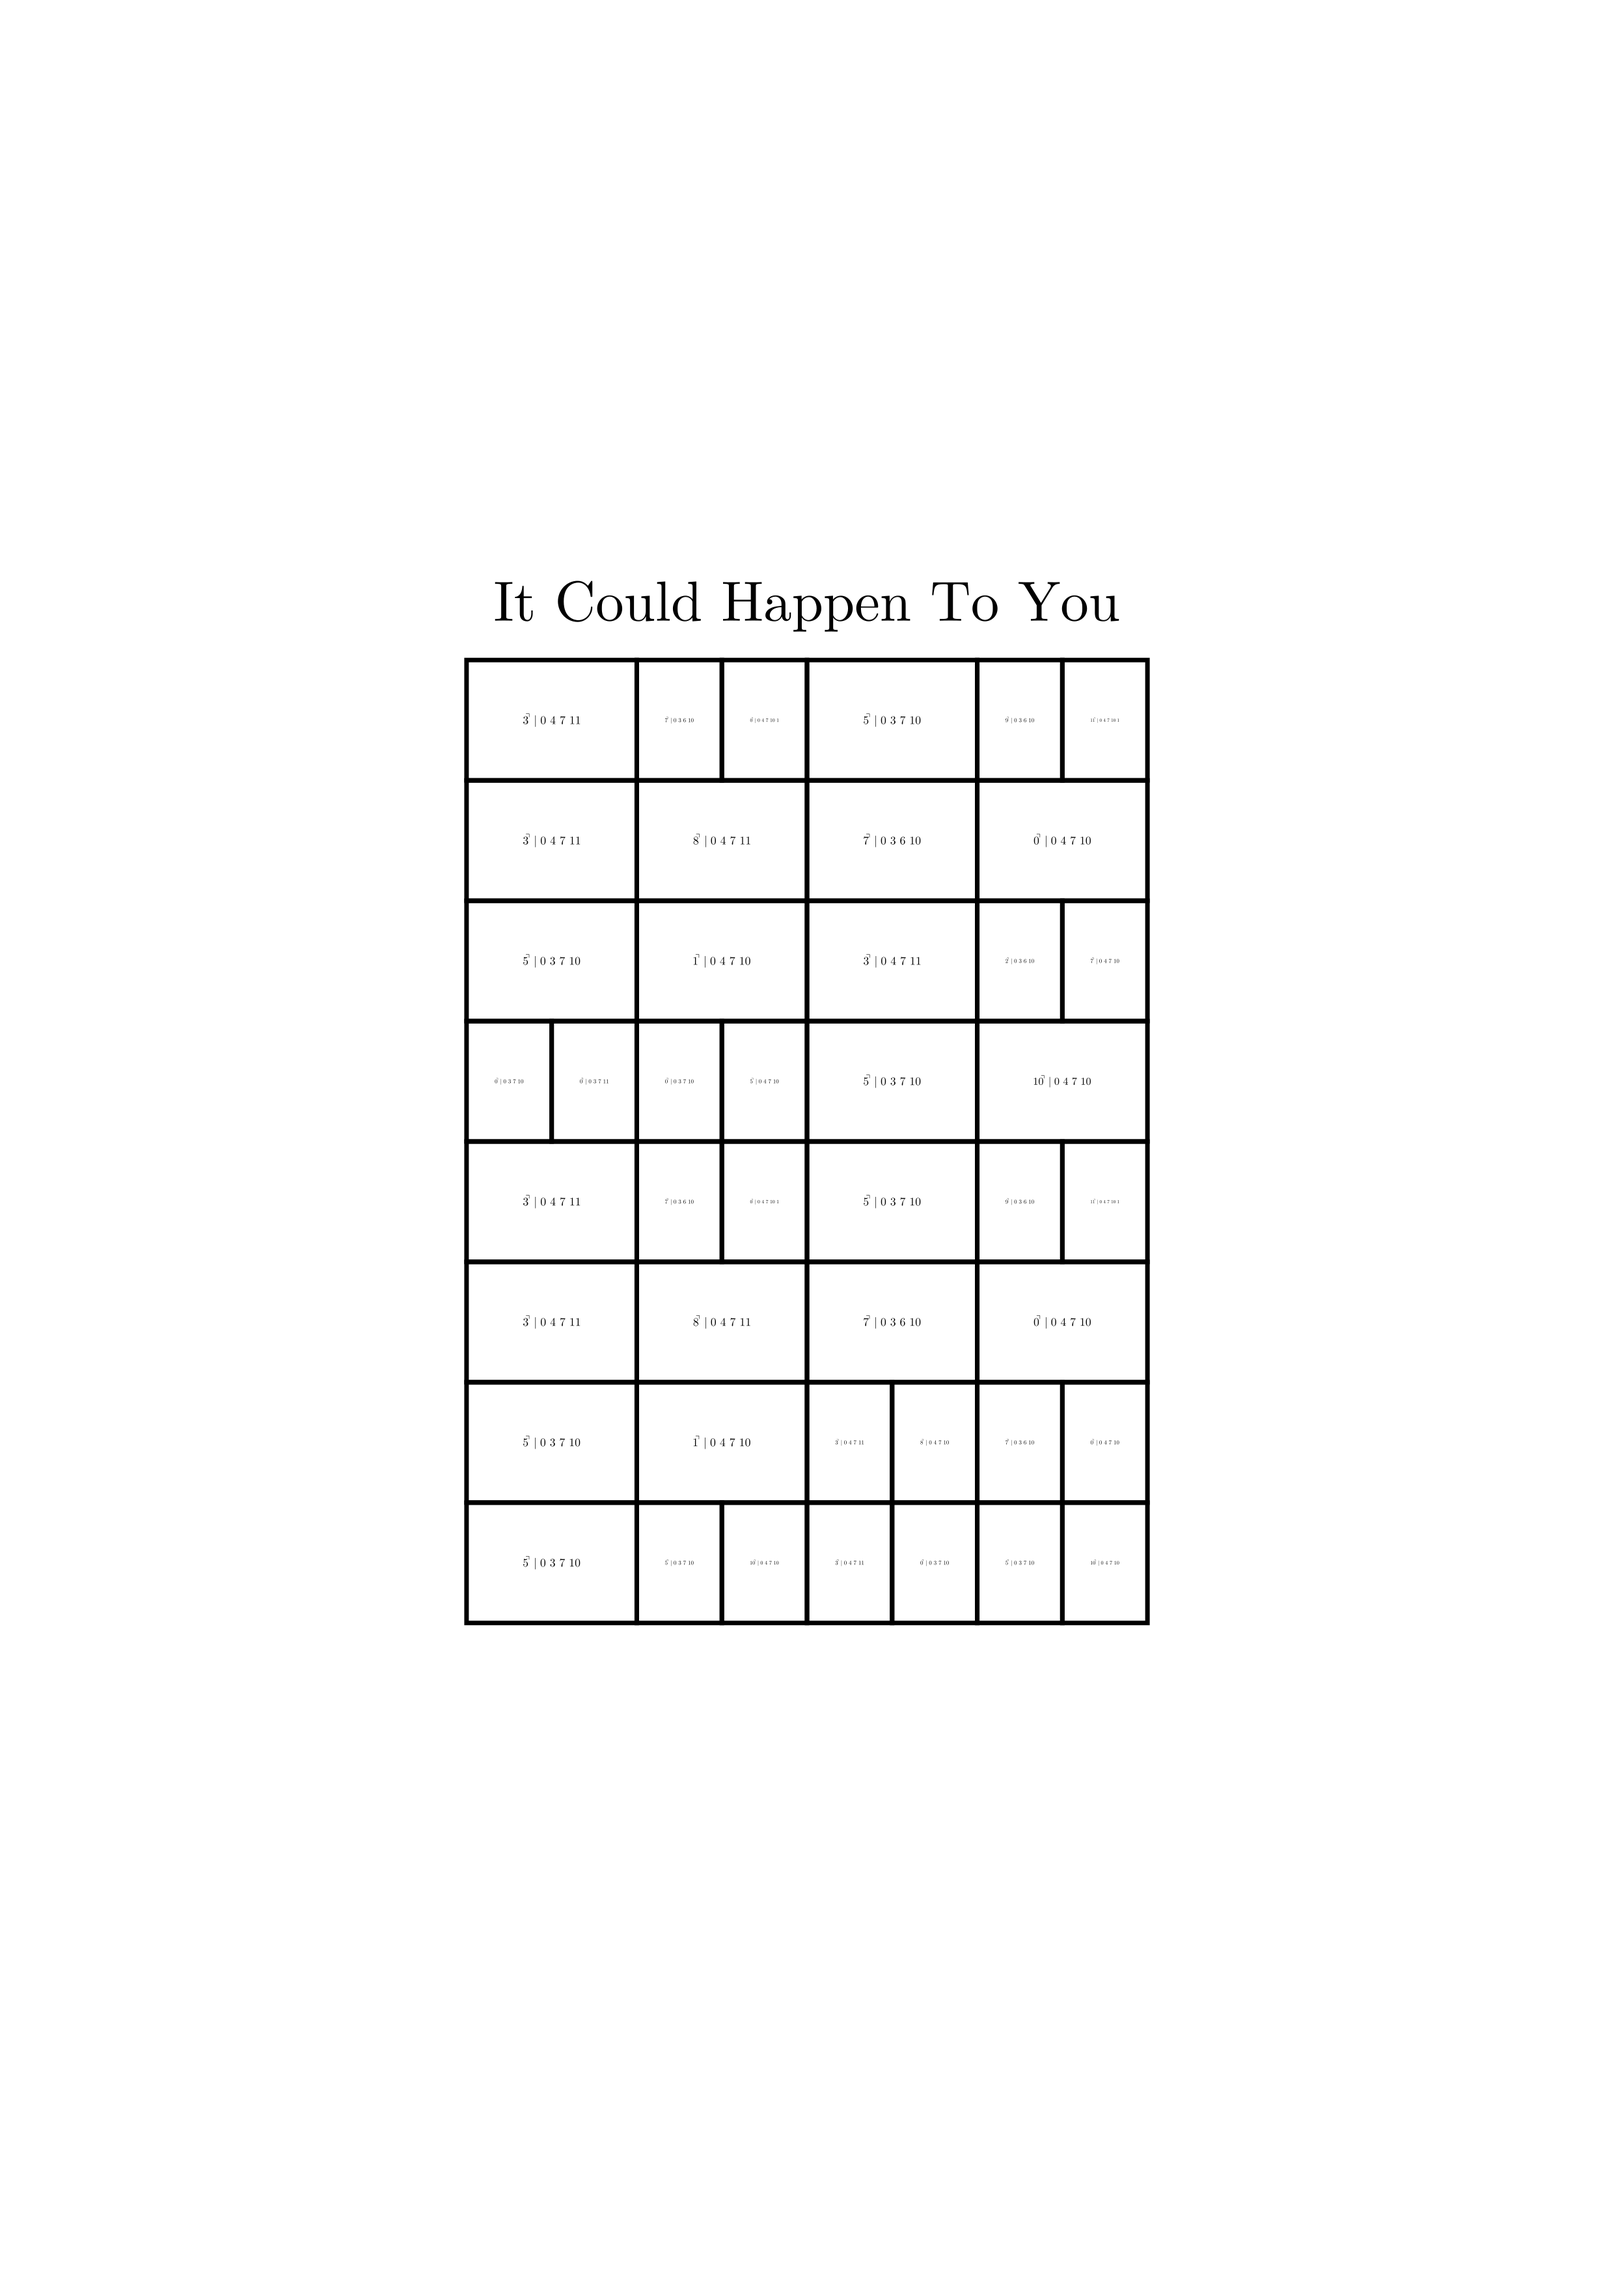
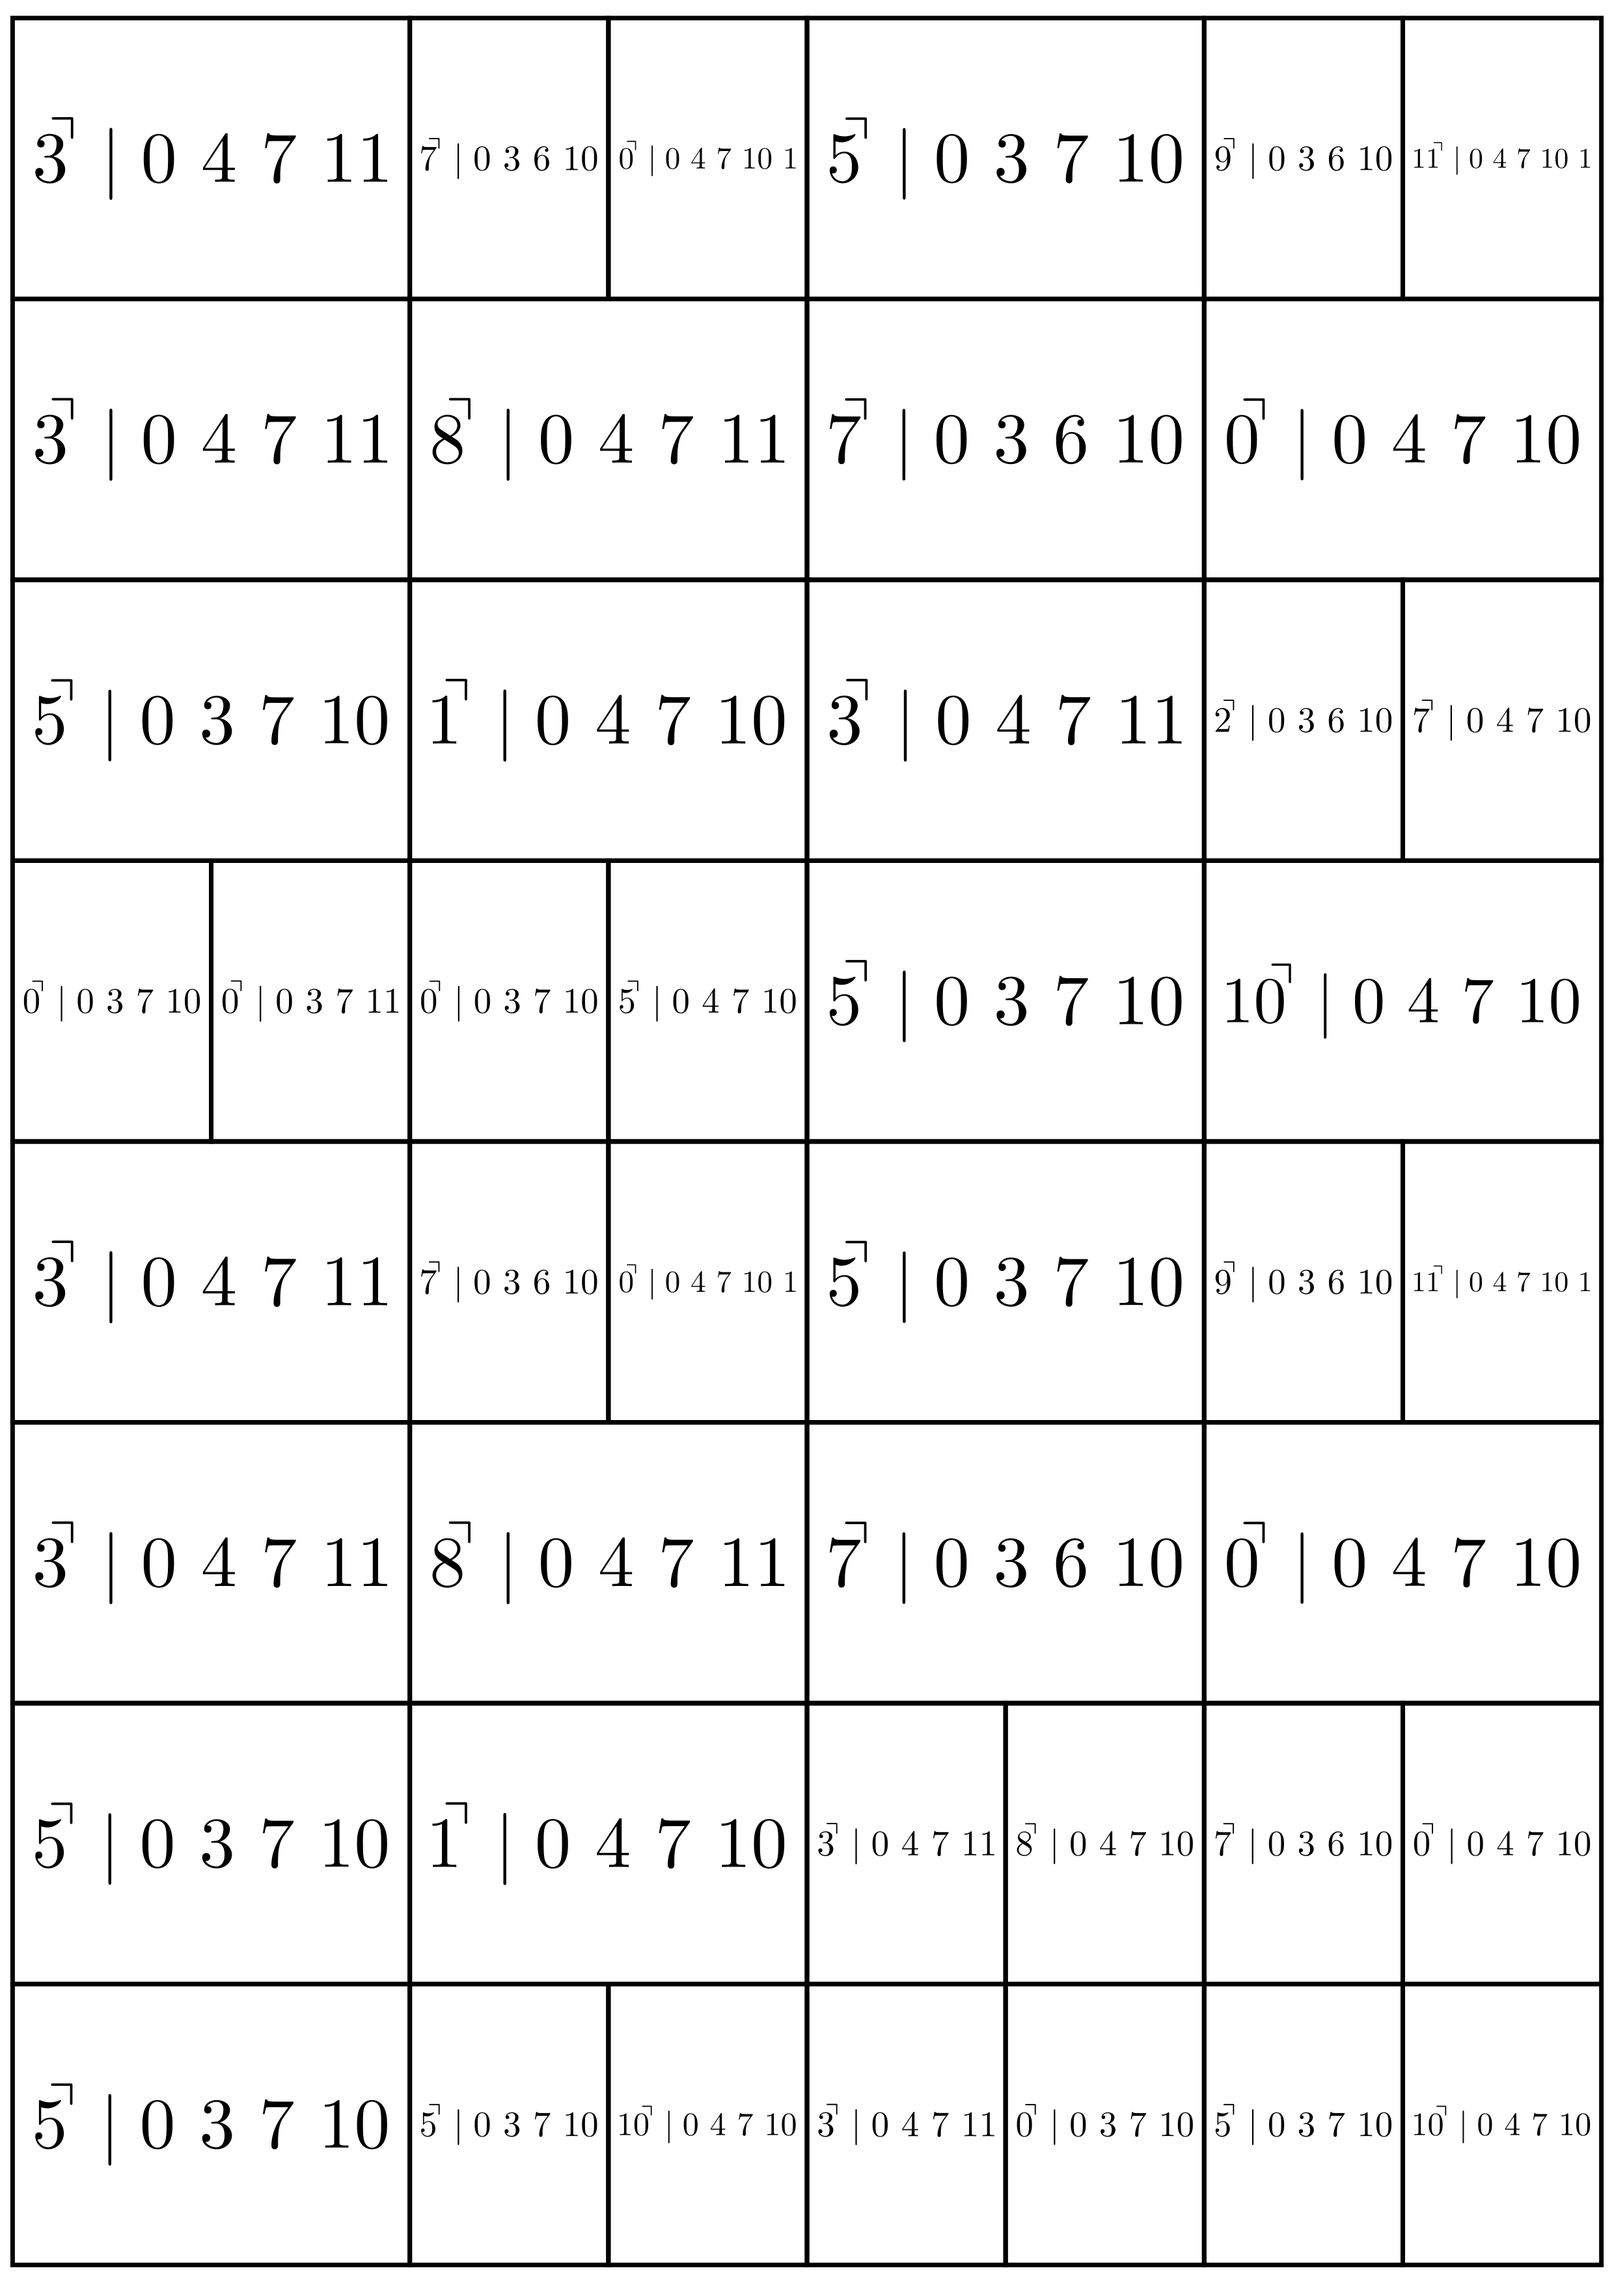
bird blues

diff --git a/lead_sheet_creator.py b/lead_sheet_creator.py
@@ -17,7 +17,7 @@ class TableAnimation(Scene):
 
         repeat_symbol = generate_repeat_symbol_with_spaces()
 
-        scale = 6
+        scale = 14
 
         class TableContext:
             def __init__(self, table, width=scale * 1, height=scale * math.sqrt(2)):
@@ -26,7 +26,7 @@ class TableAnimation(Scene):
                 self.num_rows = len(table)
                 self.num_cols = len(table[0])
 
-                self.x_padding = 0.5
+                self.x_padding = 0.2
                 self.y_padding = 0.2
 
                 self.cell_width = width / self.num_cols
